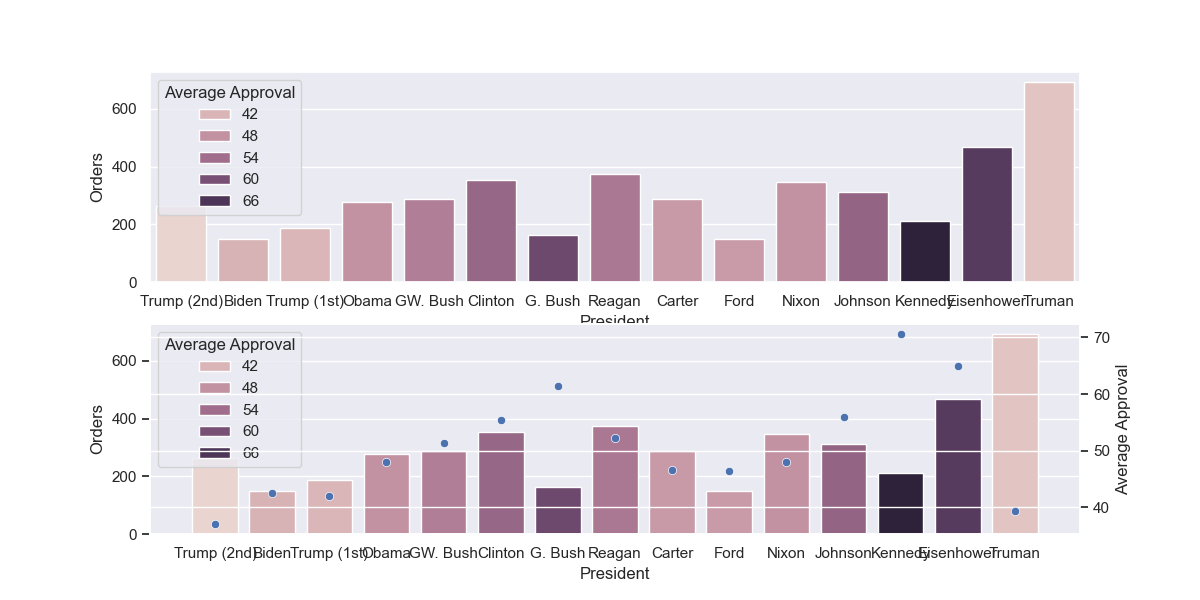
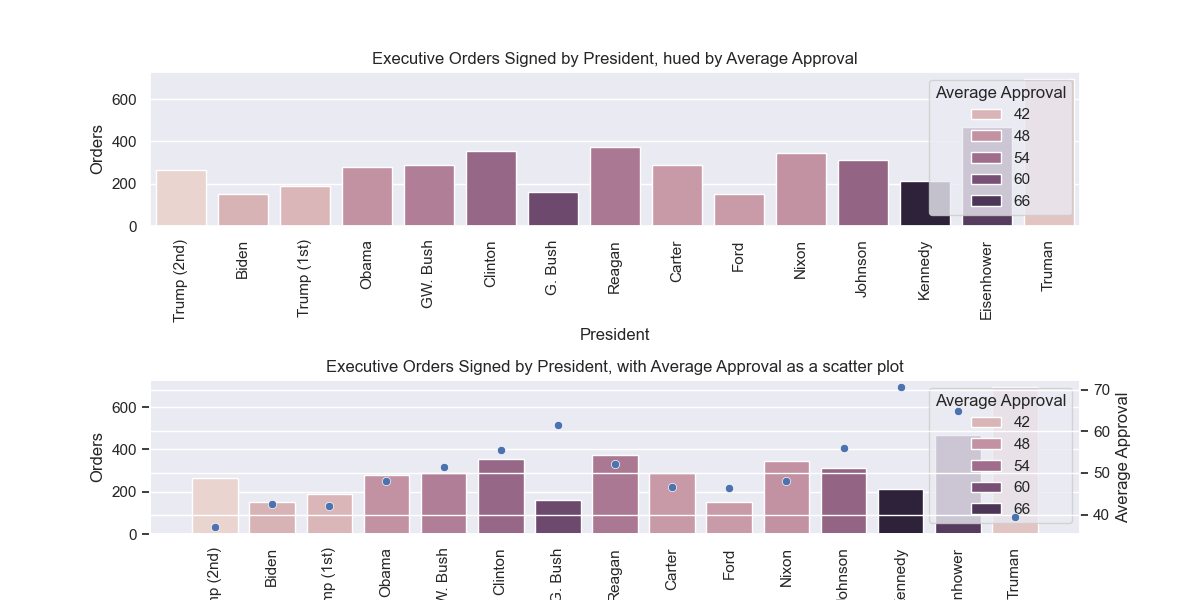
cleaned graphs a little

diff --git a/visualizations.py b/visualizations.py
@@ -124,9 +124,14 @@ def make_orderscongressgraph(orders_vs_congress: pd.DataFrame) -> plt.figure:
     Creates a bar graph of the number of executive orders signed during each Congress
     """
     sns.set_theme()
-    fig, ax = plt.subplots(2, 1,figsize=(12, 6))
+    fig, ax = plt.subplots(2, 1,figsize=(12, 8))
     sns.barplot(x="Number", y="Orders", hue="Senate Democrats", data=orders_vs_congress, ax=ax[0])
     sns.barplot(x="Number", y="Orders", hue="House Democrats", data=orders_vs_congress, ax=ax[1])
+    ax[0].set_title("Executive Orders Signed by Congress, hued by Senate")
+    ax[1].set_title("Executive Orders Signed by Congress, hued by House")
+    ax[0].tick_params(axis="x", labelrotation=90)
+    ax[1].tick_params(axis="x", labelrotation=90)
+    fig.subplots_adjust(hspace=0.5)
     return fig
 
 def make_orderspresapprovalgraph(orders_vs_approval: pd.DataFrame) -> plt.figure:
@@ -139,6 +144,11 @@ def make_orderspresapprovalgraph(orders_vs_approval: pd.DataFrame) -> plt.figure
     sns.barplot(x="President", y="Orders", hue="Average Approval", data=orders_vs_approval, ax=ax[1])
     ax1 = ax[1].twinx()
     sns.scatterplot(x="President", y="Average Approval", data=orders_vs_approval, ax=ax1)
+    ax[0].set_title("Executive Orders Signed by President, hued by Average Approval")
+    ax[1].set_title("Executive Orders Signed by President, with Average Approval as a scatter plot")
+    ax[0].tick_params(axis="x", labelrotation=90)
+    ax[1].tick_params(axis="x", labelrotation=90)
+    fig.subplots_adjust(hspace=1)
     return fig
 
 def make_ordersapprovalmonthlygraph(orders_vs_approval: pd.DataFrame) -> plt.figure:
@@ -146,12 +156,19 @@ def make_ordersapprovalmonthlygraph(orders_vs_approval: pd.DataFrame) -> plt.fig
     Creates a bar graph of the number of executive orders signed during each month
     """
     sns.set_theme()
-    fig, ax = plt.subplots(2, 1, figsize=(12, 6))
+    fig, ax = plt.subplots(2, 1, figsize=(12, 8))
     orders_vs_approval["Year-Month"] = orders_vs_approval["Year-Month"].astype(str)
     sns.barplot(x="Year-Month", y="Orders", data=orders_vs_approval, ax=ax[0])
     sns.barplot(x="Year-Month", y="Orders", data=orders_vs_approval, ax=ax[1])
     ax1 = ax[1].twinx()
     sns.lineplot(x="Year-Month", y="Average Approval", data=orders_vs_approval, ax=ax1)
+    ax[0].set_title("Executive Orders Signed by Month")
+    ax[1].set_title("Average Approval by Month")
+    ax[0].tick_params(axis="x", labelrotation=90)
+    ax[1].tick_params(axis="x", labelrotation=90)
+    fig.subplots_adjust(hspace=0.5)
+    ax[0].set_xticks(ax[0].get_xticks()[::12])
+    ax[1].set_xticks(ax[1].get_xticks()[::12])
     return fig
     
 
